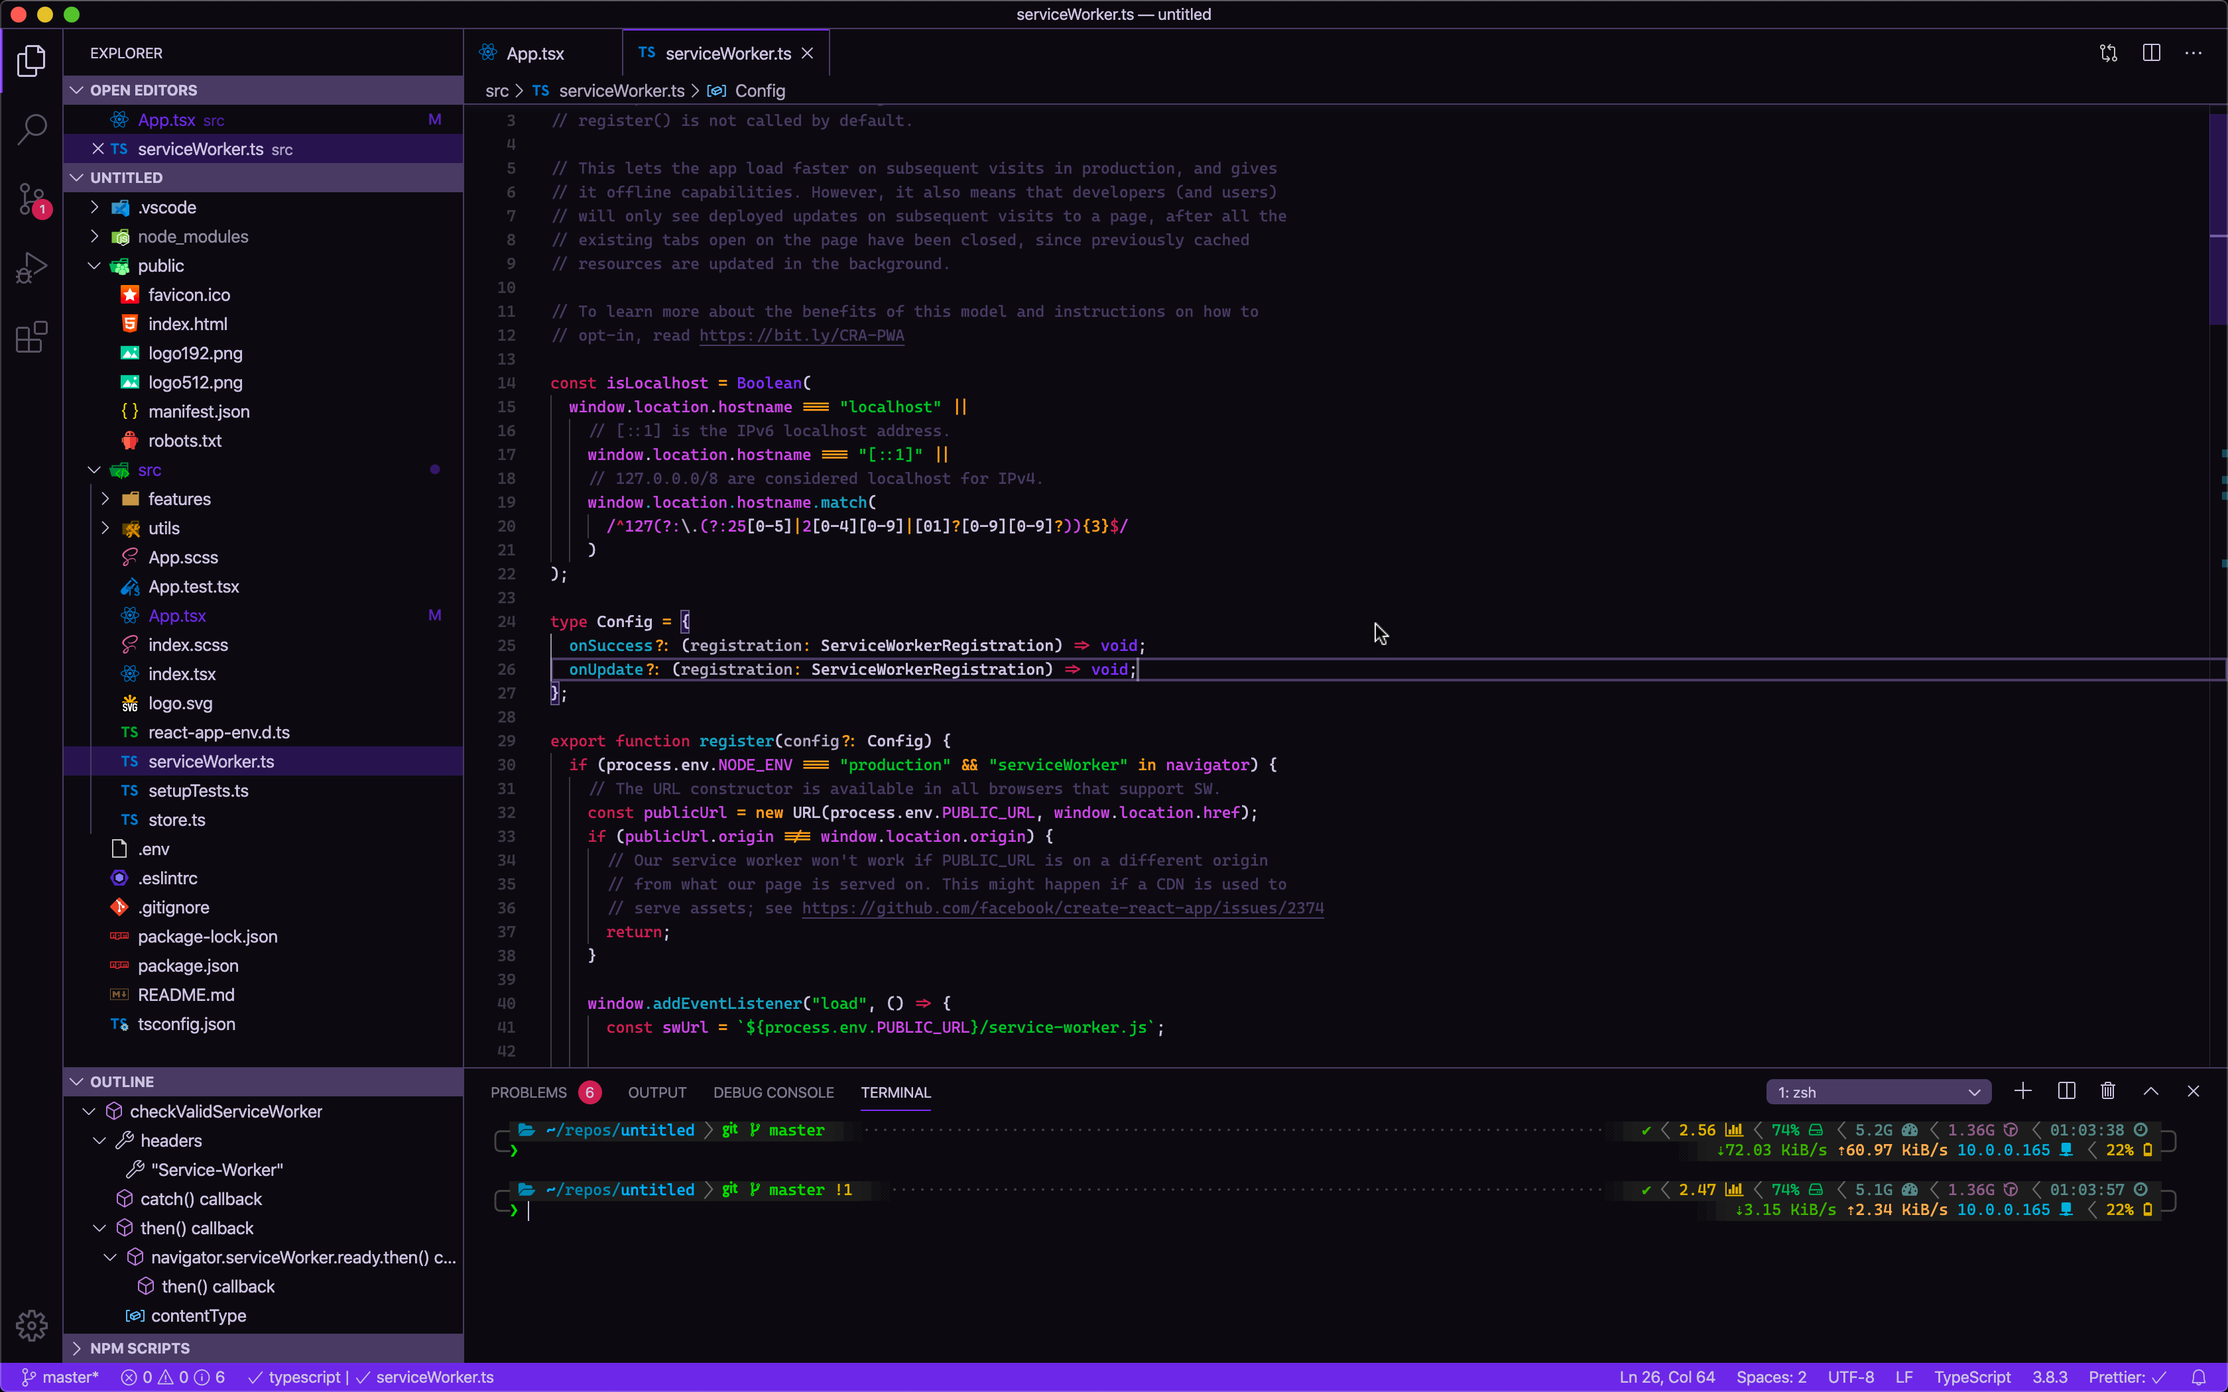
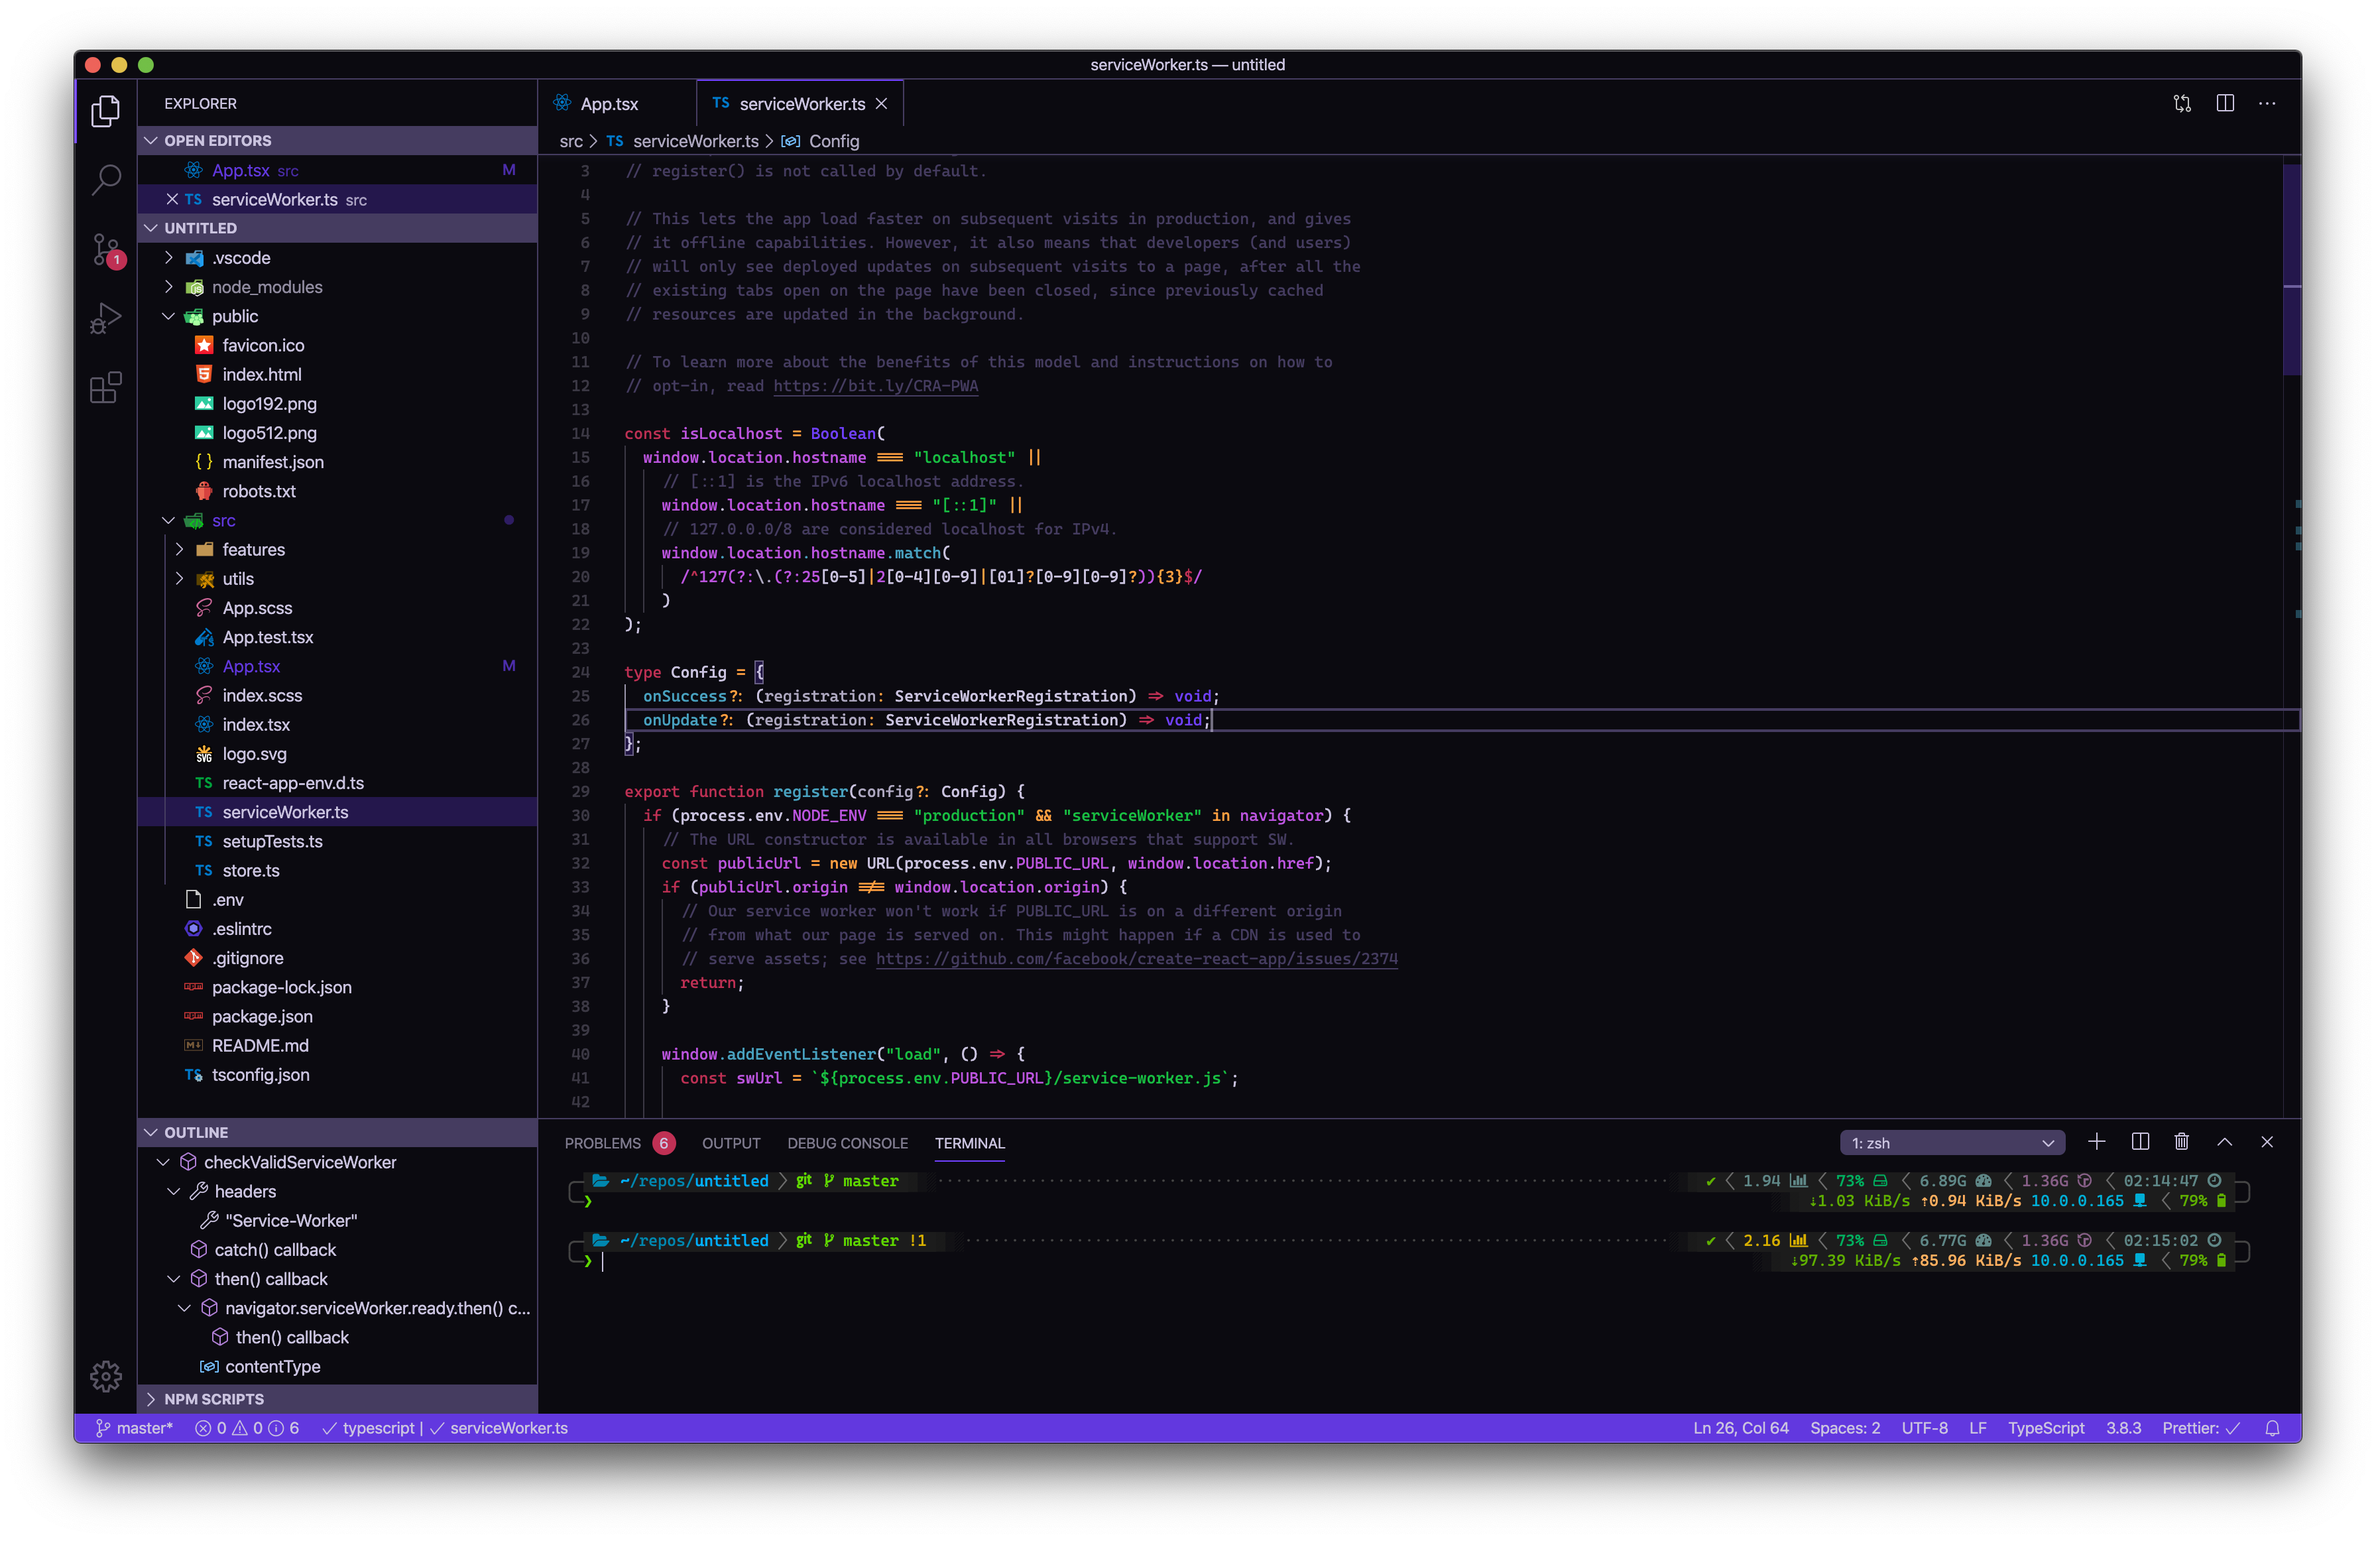
nit: screenshot

Changed region(s): [[0.0, 0.0, 1.0, 1.0]]

diff --git a/CHANGELOG.md b/CHANGELOG.md
@@ -1,8 +1,8 @@
 # Change Log
 
-### 1.0.2
+### 1.0.3
 
-- Update Screenshot
+- Update screenshots
 
 ### 1.0.0
 
